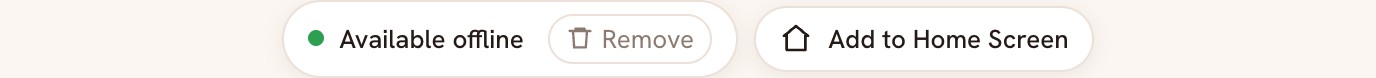
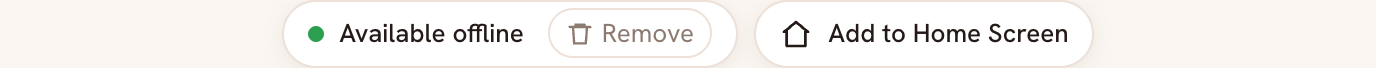
Align the offline and install pills to the same height
The install button was taller than the offline pill because its icon is bigger
than the text line. Give both a fixed 34px height with centered content so they
line up regardless of icon-vs-text content.

diff --git a/src/components/InstallPrompt.tsx b/src/components/InstallPrompt.tsx
@@ -30,7 +30,7 @@ const HomeIcon = () => (
 );
 
 const pill =
-  "inline-flex items-center gap-sm rounded-pill border px-md py-[6px] text-sm font-medium shadow-subtle transition-colors";
+  "inline-flex min-h-[34px] items-center gap-sm rounded-pill border px-md text-sm font-medium shadow-subtle transition-colors";
 
 export function InstallPrompt() {
   const [deferred, setDeferred] = React.useState<BeforeInstallPromptEvent | null>(null);

diff --git a/src/components/OfflineStatus.tsx b/src/components/OfflineStatus.tsx
@@ -94,7 +94,7 @@ export function OfflineStatus() {
     await refresh();
   };
 
-  const pill = "inline-flex items-center gap-sm rounded-pill border border-border bg-surface px-md py-[6px] text-sm shadow-subtle";
+  const pill = "inline-flex min-h-[34px] items-center gap-sm rounded-pill border border-border bg-surface px-md text-sm shadow-subtle";
 
   // Update available: amber, tap to reload into the new version.
   if (needRefresh) {